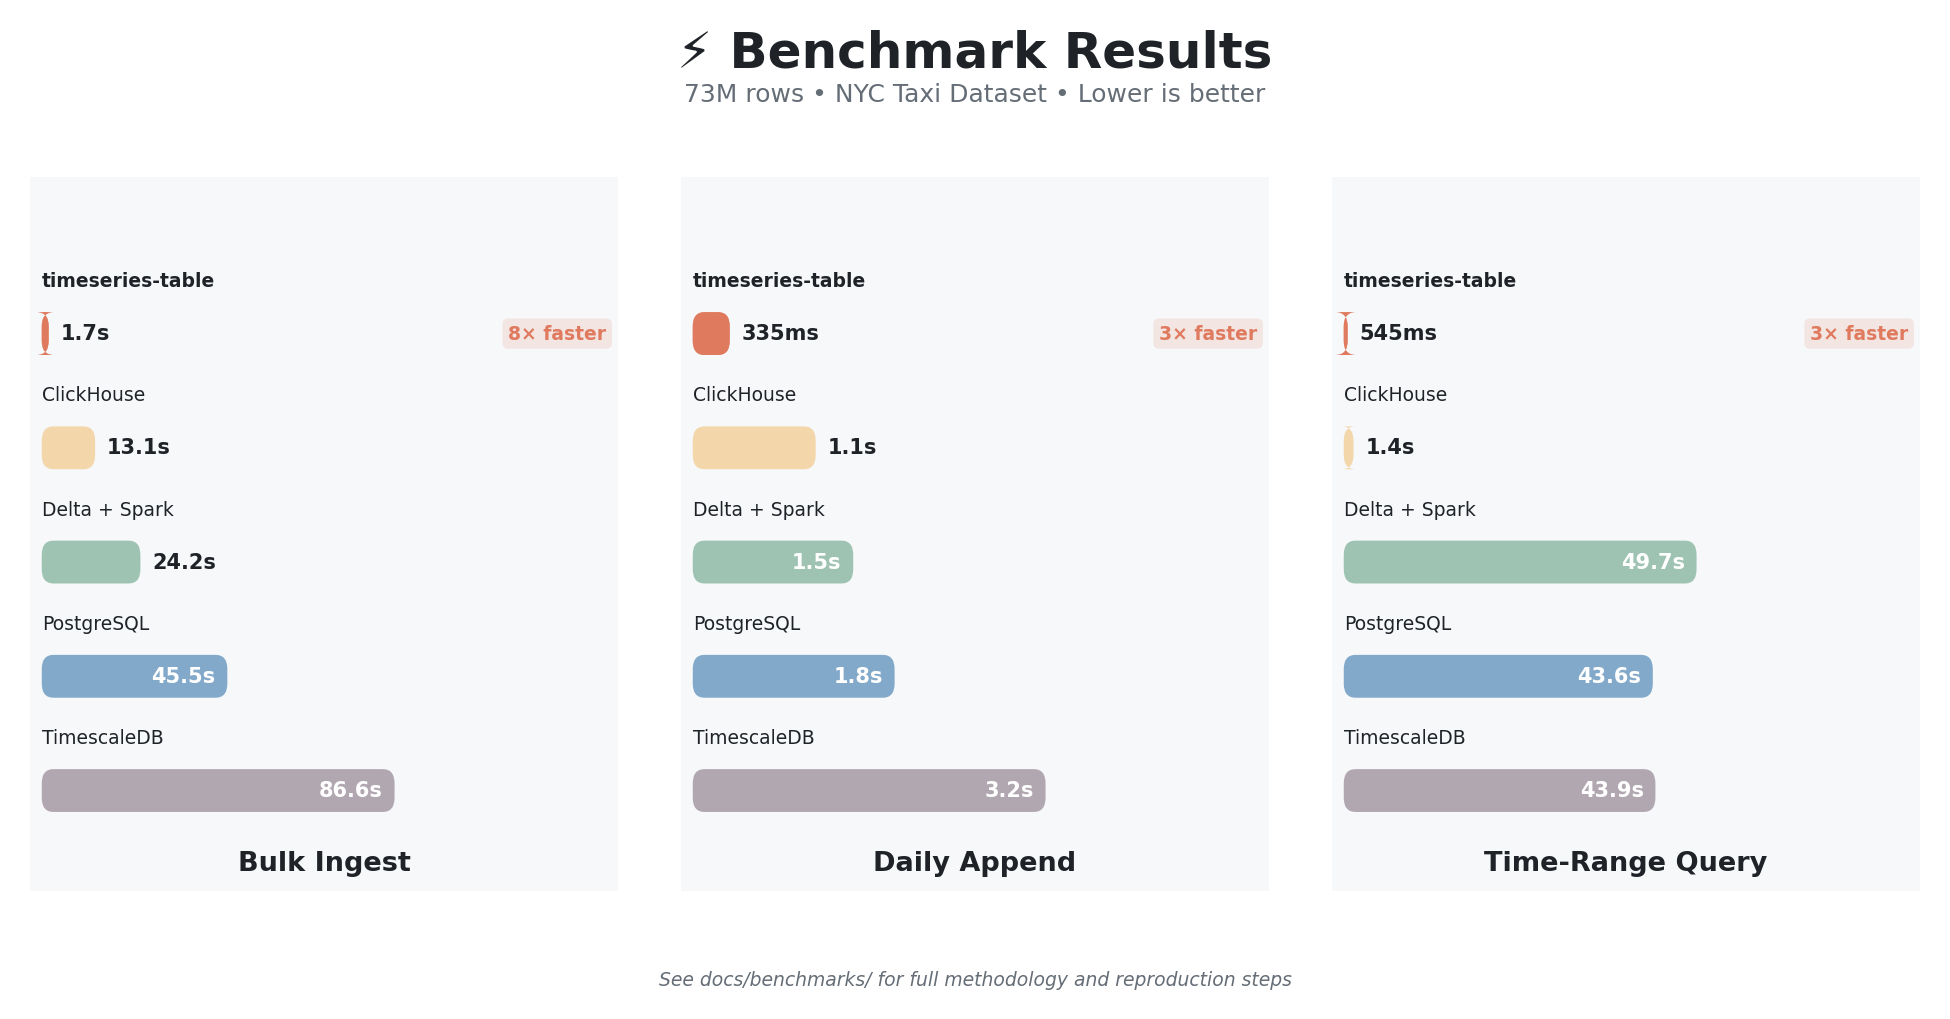
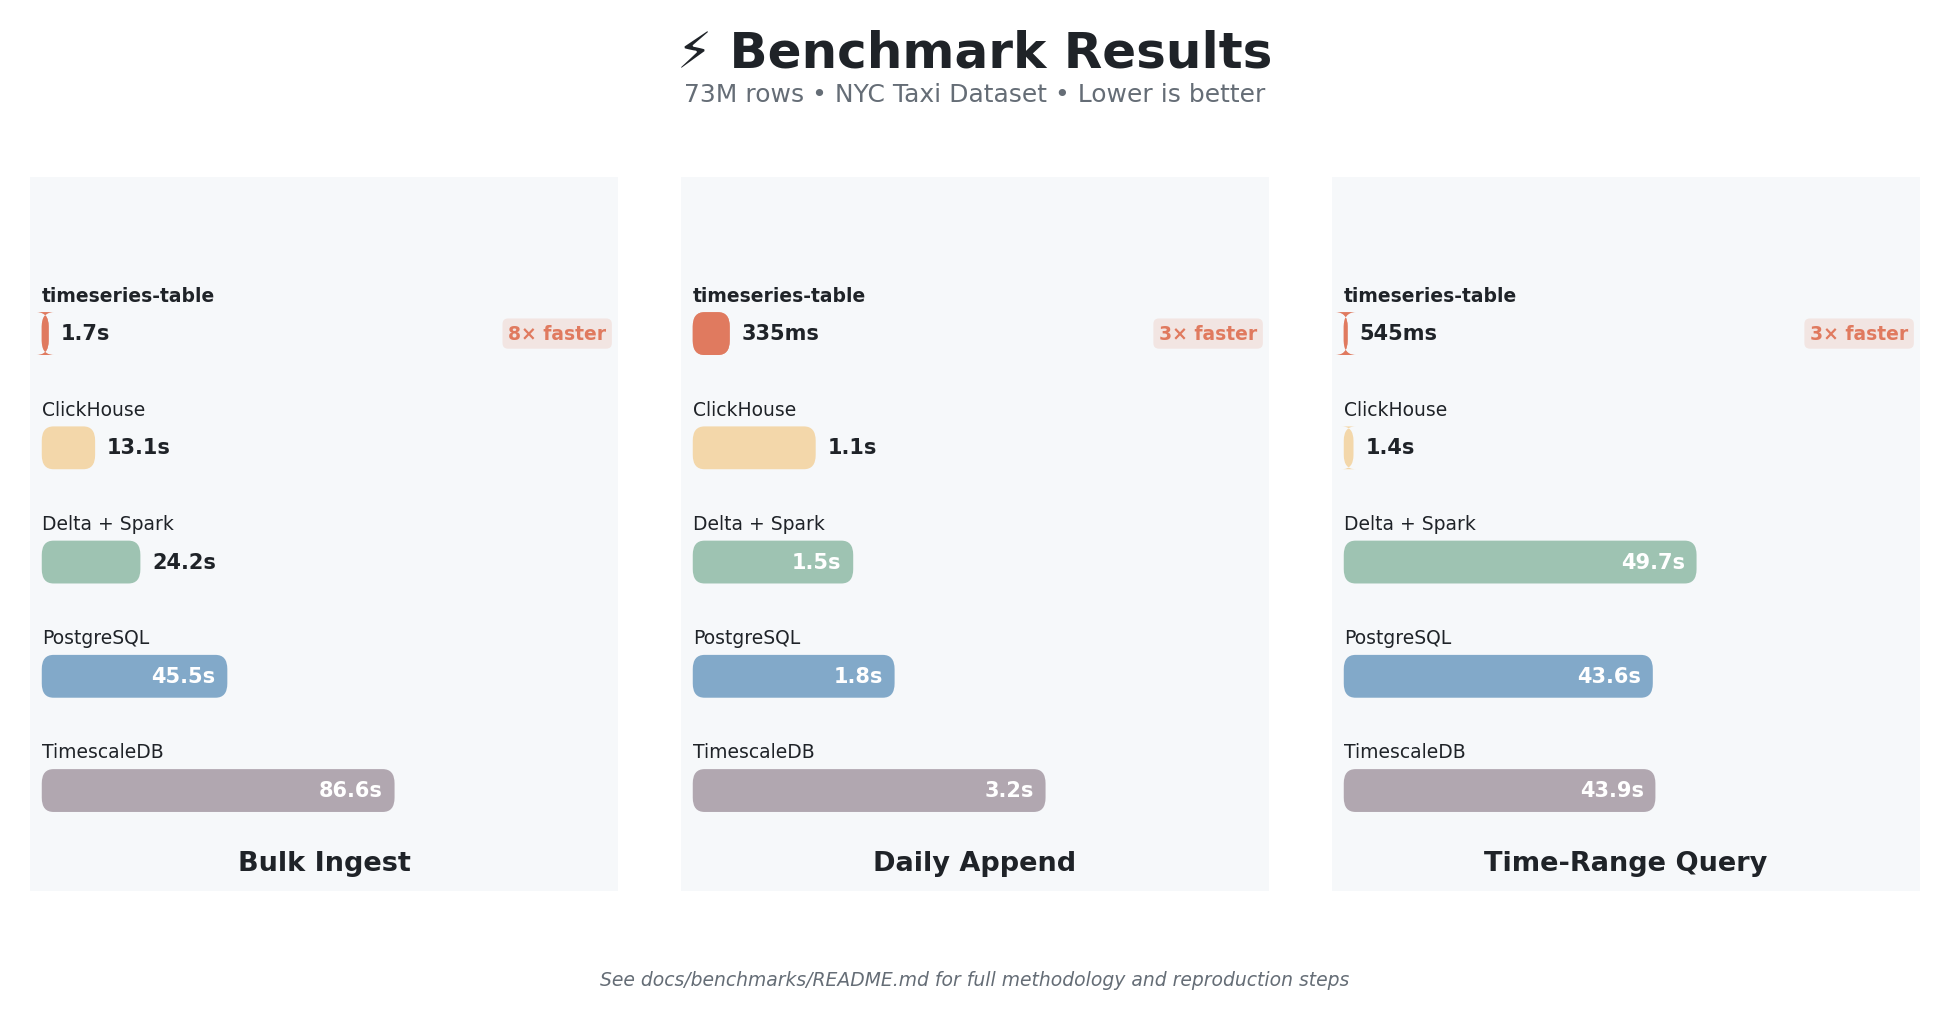
fix: update benchmark documentation links for clarity and accuracy

diff --git a/scripts/bench/generate_benchmark_chart_v2.py b/scripts/bench/generate_benchmark_chart_v2.py
@@ -70,7 +70,7 @@ OP_TITLE_FONTSIZE = 13
 OP_TITLE_Y = 0.02                 # Y position at bottom of card
 
 # --- Footer Settings ---
-FOOTER_TEXT = "See docs/benchmarks/ for full methodology and reproduction steps"
+FOOTER_TEXT = "See docs/benchmarks/README.md for full methodology and reproduction steps"
 FOOTER_FONTSIZE = 9
 FOOTER_Y = 0.03
 

diff --git a/README.md b/README.md
@@ -86,7 +86,7 @@ Benchmarked on **73M rows** of NYC taxi data (bulk load + 90 days of daily appen
 </td></tr>
 </table>
 
-<sub>Aggregation queries (GROUP BY, filtering) are competitive with ClickHouse. See [full benchmark details](docs/benchmarks/).</sub>
+<sub>Aggregation queries (GROUP BY, filtering) are competitive with ClickHouse. See [full benchmark methodology and results](docs/benchmarks/README.md).</sub>
 
 ---
 
